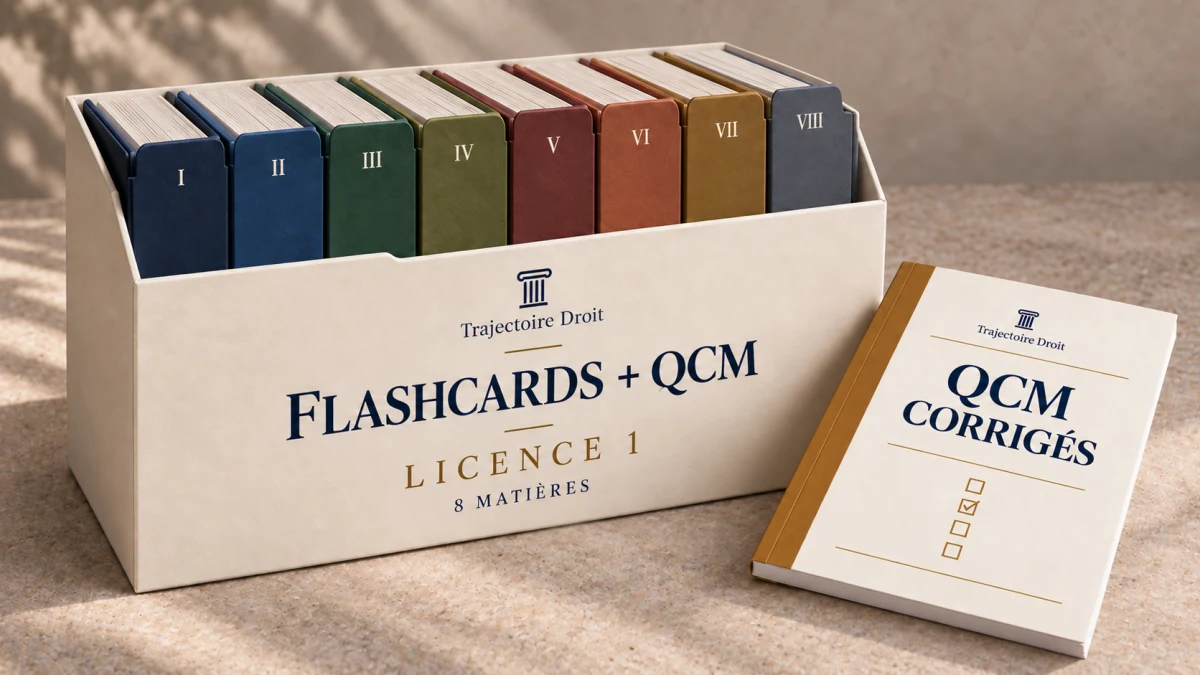
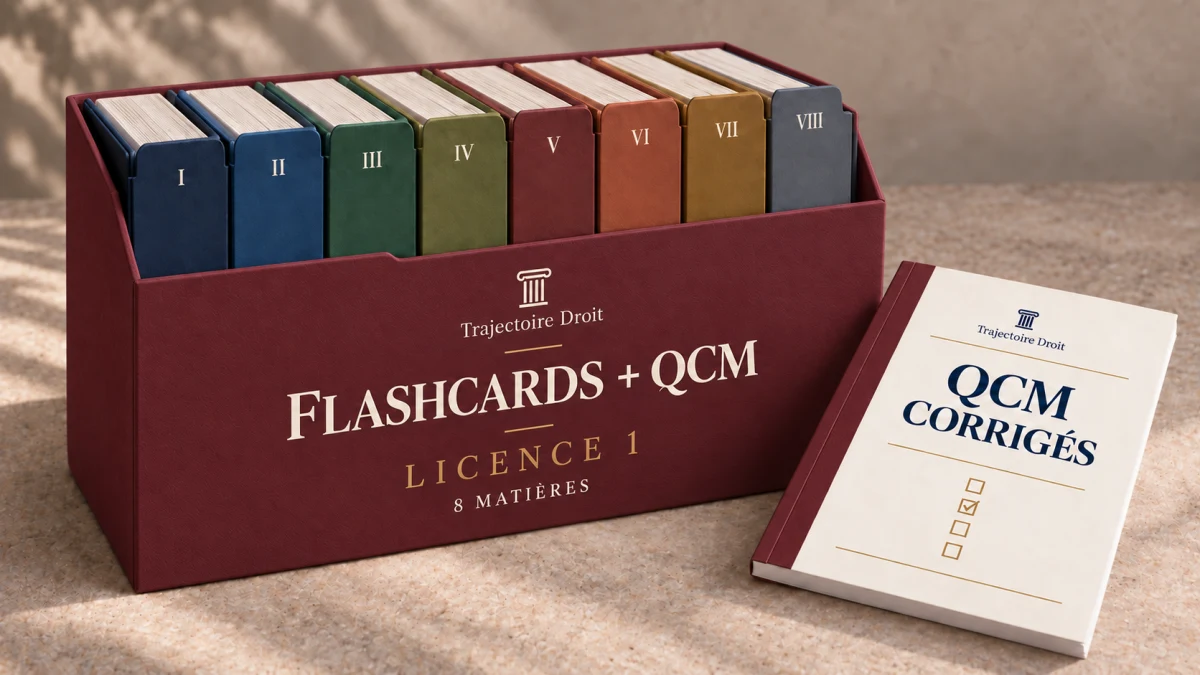
Differentiate annual flashcards pack colors

diff --git a/flashcards-qcm.html b/flashcards-qcm.html
@@ -345,15 +345,15 @@
         <p class="lead" style="margin-bottom:30px">Tu reçois les flashcards en PDF et le QCM corrigé de chaque matière. Un deck Anki accompagne aussi chacun de ces produits. Les fichiers restent séparés par matière, donc tu peux réviser dans l'ordre de tes cours. Le pack coûte environ 25 % de moins que les mêmes matières achetées une par une.</p>
         <div class="grid-3">
           <article class="card card--product fade-in">
-            <div class="product__thumb has-cover"><span class="badge badge--format">Pack annuel</span><img src="assets/covers/pack-flashcards-qcm-l1.webp?v=packs-flashcards-20260922" alt="Pack Flashcards et QCM L1, huit matières" loading="lazy" decoding="async" width="1200" height="675"></div>
+            <div class="product__thumb has-cover"><span class="badge badge--format">Pack annuel</span><img src="assets/covers/pack-flashcards-qcm-l1.webp?v=packs-flashcards-couleurs-20260923" alt="Pack Flashcards et QCM L1, huit matières" loading="lazy" decoding="async" width="1200" height="675"></div>
             <div class="product__body"><h3 class="product__title">Flashcards + QCM L1</h3><div class="product__meta"><span>8 matières</span><span>·</span><span>PDF + Anki</span></div><p class="product__desc">Les huit matières de L1 présentées plus bas, dont les deux semestres de droit constitutionnel. <a href="#l1">Voir les matières</a>.</p><div><span class="product__price-old">79,92 €</span><span class="product__price">60 €</span><span class="badge badge--success" style="margin-left:6px">-25 %</span></div><button type="button" class="btn btn--primary btn--full product__cta" data-tjd-produit="pack-flashcards-qcm-l1">Acheter le pack · 60 €</button></div>
           </article>
           <article class="card card--product fade-in">
-            <div class="product__thumb has-cover"><span class="badge badge--format">Pack annuel</span><img src="assets/covers/pack-flashcards-qcm-l2.webp?v=packs-flashcards-20260922" alt="Pack Flashcards et QCM L2, six matières" loading="lazy" decoding="async" width="1200" height="675"></div>
+            <div class="product__thumb has-cover"><span class="badge badge--format">Pack annuel</span><img src="assets/covers/pack-flashcards-qcm-l2.webp?v=packs-flashcards-couleurs-20260923" alt="Pack Flashcards et QCM L2, six matières" loading="lazy" decoding="async" width="1200" height="675"></div>
             <div class="product__body"><h3 class="product__title">Flashcards + QCM L2</h3><div class="product__meta"><span>6 matières</span><span>·</span><span>PDF + Anki</span></div><p class="product__desc">Les six matières de L2 présentées plus bas, dont les deux semestres de droit administratif. <a href="#l2">Voir les matières</a>.</p><div><span class="product__price-old">59,94 €</span><span class="product__price">45 €</span><span class="badge badge--success" style="margin-left:6px">-25 %</span></div><button type="button" class="btn btn--primary btn--full product__cta" data-tjd-produit="pack-flashcards-qcm-l2">Acheter le pack · 45 €</button></div>
           </article>
           <article class="card card--product fade-in">
-            <div class="product__thumb has-cover"><span class="badge badge--format">Pack annuel</span><img src="assets/covers/pack-flashcards-qcm-l3.webp?v=packs-flashcards-20260922" alt="Pack Flashcards et QCM L3, quatre matières" loading="lazy" decoding="async" width="1200" height="675"></div>
+            <div class="product__thumb has-cover"><span class="badge badge--format">Pack annuel</span><img src="assets/covers/pack-flashcards-qcm-l3.webp?v=packs-flashcards-couleurs-20260923" alt="Pack Flashcards et QCM L3, quatre matières" loading="lazy" decoding="async" width="1200" height="675"></div>
             <div class="product__body"><h3 class="product__title">Flashcards + QCM L3</h3><div class="product__meta"><span>4 matières</span><span>·</span><span>PDF + Anki</span></div><p class="product__desc">Les quatre matières de L3 présentées plus bas. <a href="#l3">Voir les matières</a>.</p><div><span class="product__price-old">39,96 €</span><span class="product__price">30 €</span><span class="badge badge--success" style="margin-left:6px">-25 %</span></div><button type="button" class="btn btn--primary btn--full product__cta" data-tjd-produit="pack-flashcards-qcm-l3">Acheter le pack · 30 €</button></div>
           </article>
         </div>
